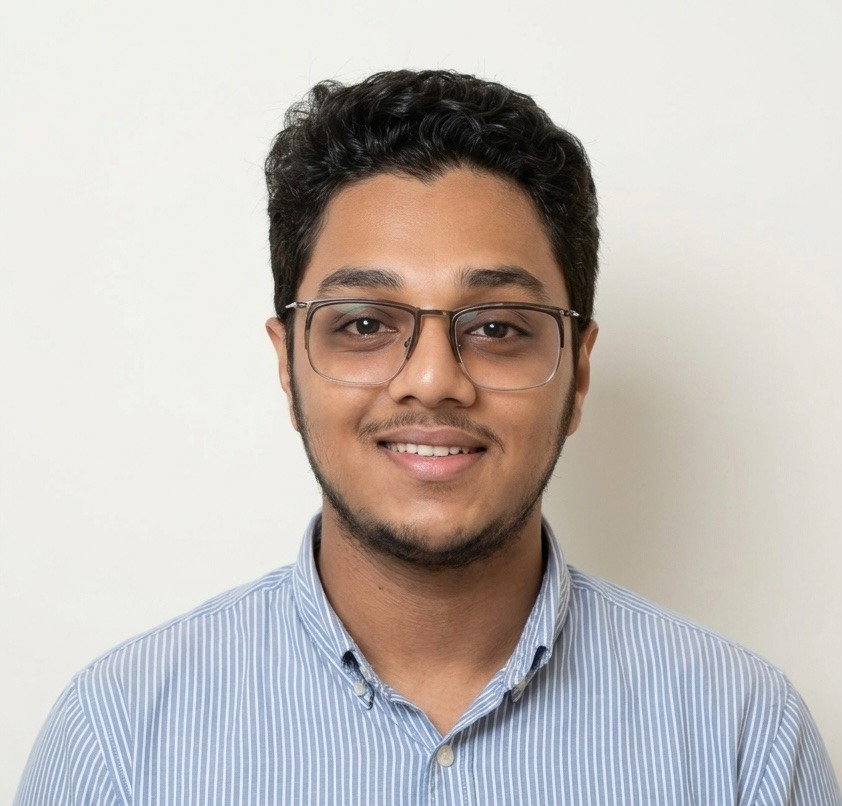
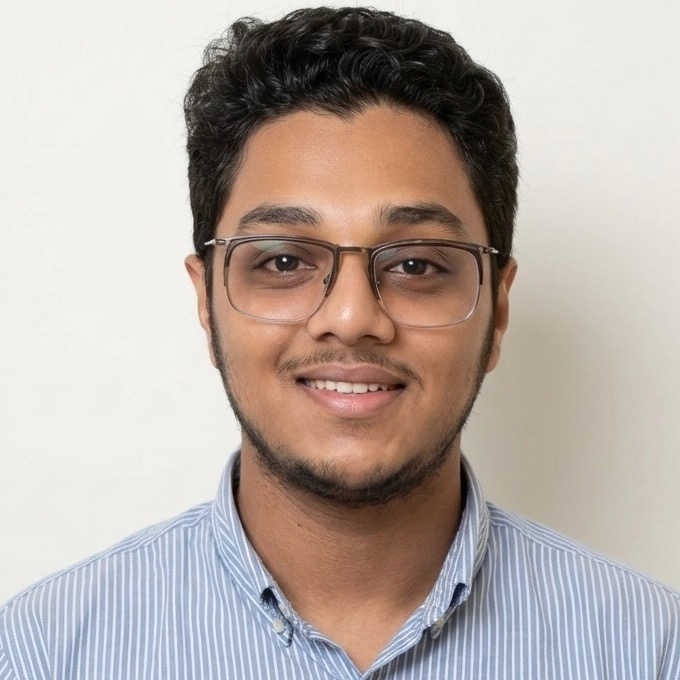
fix: make mobile dock 100% opaque to prevent text overlap and natively crop photo for crystal sharpness

diff --git a/components/navigation/MobileBottomDock.tsx b/components/navigation/MobileBottomDock.tsx
@@ -41,9 +41,9 @@ export function MobileBottomDock() {
   return (
     <nav
       aria-label="Mobile Navigation Dock"
-      className="md:hidden fixed bottom-2.5 inset-x-2.5 sm:inset-x-auto sm:left-1/2 sm:-translate-x-1/2 sm:w-[420px] z-40 animate-fade-up select-none"
+      className="md:hidden fixed bottom-2.5 inset-x-2.5 sm:inset-x-auto sm:left-1/2 sm:-translate-x-1/2 sm:w-[420px] z-50 animate-fade-up select-none"
     >
-      <div className="bg-white/92 backdrop-blur-xl border border-apple-border/80 shadow-apple-lg rounded-2xl p-1 sm:p-1.5 flex items-center justify-between gap-0.5 pb-[max(0.25rem,env(safe-area-inset-bottom,0px))]">
+      <div className="bg-white border border-apple-border/80 shadow-[0_8px_30px_rgb(0,0,0,0.12)] rounded-2xl p-1 sm:p-1.5 flex items-center justify-between gap-0.5 pb-[max(0.25rem,env(safe-area-inset-bottom,0px))]">
         {DOCK_ITEMS.map((item) => {
           const Icon = item.icon;
           const active = isActive(item.href);

diff --git a/components/home/Hero.tsx b/components/home/Hero.tsx
@@ -61,8 +61,8 @@ export function Hero() {
                   src={assetPath(personalData.photoUrl)}
                   alt="Mahfuzul Alam — Software Development Engineer in Test (SDET)"
                   fill
-                  sizes="(max-width: 640px) 224px, (max-width: 768px) 256px, 288px"
-                  className="object-cover object-center scale-110"
+                  sizes="(max-width: 640px) 256px, 288px"
+                  className="object-cover object-center"
                   priority
                 />
               </div>

diff --git a/app/layout.tsx b/app/layout.tsx
@@ -70,7 +70,7 @@ export default function RootLayout({
 }) {
   return (
     <html lang="en">
-      <body className="font-sans antialiased bg-apple-bg text-apple-text min-h-screen flex flex-col selection:bg-apple-blue selection:text-white pb-20 md:pb-0">
+      <body className="font-sans antialiased bg-apple-bg text-apple-text min-h-screen flex flex-col selection:bg-apple-blue selection:text-white pb-24 md:pb-0">
         <Analytics />
         <Navbar />
         <main className="flex-1">{children}</main>

diff --git a/app/about/page.tsx b/app/about/page.tsx
@@ -46,8 +46,8 @@ export default function AboutPage() {
                   src={assetPath(personalData.photoUrl)}
                   alt={personalData.name}
                   fill
-                  sizes="(max-width: 640px) 160px, 192px"
-                  className="object-cover object-center scale-110"
+                  sizes="(max-width: 640px) 192px, 224px"
+                  className="object-cover object-center"
                   priority
                 />
               </div>
